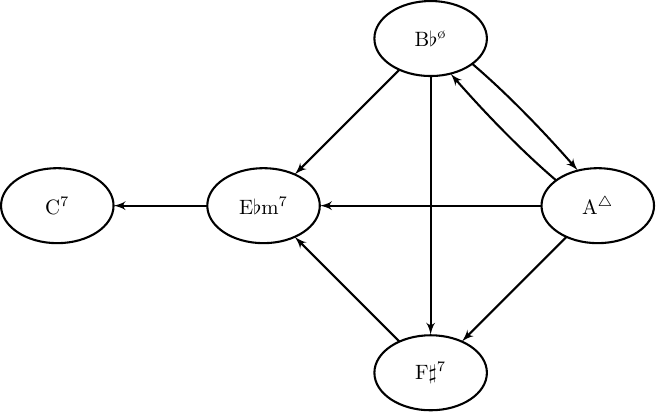
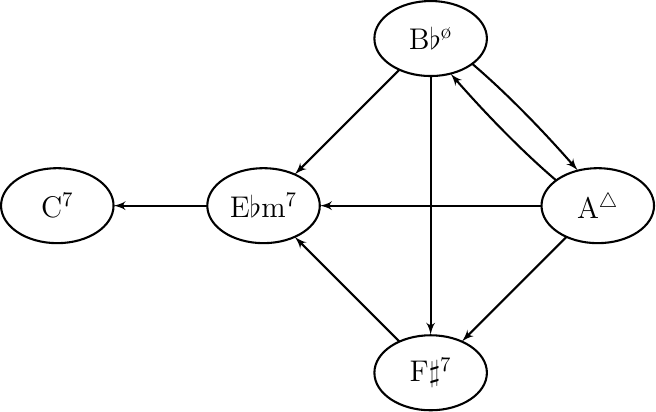
updated the docs

diff --git a/lib/chordgraph.cpp b/lib/chordgraph.cpp
@@ -179,7 +179,7 @@ double ChordGraph::betweenness_centrality(int i, const pathmap &path_map) const 
 }
 
 double::ChordGraph::communicability_betweenness_centrality(int k) const {
-    int n = number_of_vertices();
+    int n = number_of_vertices(), m = 0;
     if (n < 3)
         return 0;
     Matrix A = adjacency_matrix(), Ak = A;
@@ -194,11 +194,15 @@ double::ChordGraph::communicability_betweenness_centrality(int k) const {
         for (int j = 1; j <= n; ++j) {
             if (j == k || j == i)
                 continue;
-            if (eA.element(i, j) > 0)
+            if (eA.element(i, j) > 0) {
                 ret += 1 - eAk.element(i, j) / eA.element(i, j);
+                ++m;
+            }
         }
     }
-    return ret / double((n - 1) * (n - 2));
+    if (m == 0)
+        return 0;
+    return ret / m;
 }
 
 double ChordGraph::katz_centrality(int k, bool rev) const {

diff --git a/lib/digraph.cpp b/lib/digraph.cpp
@@ -443,6 +443,8 @@ void Digraph::output_dot(std::ostream &dot, bool undirected) const {
                 }
                 hex = std::string(tmp);
                 vc_label += "\"#" + hex + hex + hex + "\"";
+                if (_vc[i] > 0.5)
+                    vc_label += " fontcolor=\"white\"";
             }
         }
         dot << "  v" << i;

diff --git a/README.md b/README.md
@@ -10,7 +10,7 @@ Septima is a C++ library for investigating tonal relations between seventh chord
 * creating chord networks
 * finding optimal voicings for sequences of seventh chord symbols
 
-Command-line interface is provided for using library features from a terminal.
+A command-line interface is provided for using library features from a terminal.
 
 ### Dependencies
 1. GCC
@@ -133,7 +133,7 @@ Diatonic voice leading is obtained by setting `-c` option to 5. The option `-cs`
 
 ### Chord graphs
 
-Chord graphs are output in [DOT format](https://graphviz.org/doc/info/lang.html). The computer algebra system [Giac/Xcas](https://www-fourier.ujf-grenoble.fr/~parisse/giac.html) supports importing from DOT and features an extensive package for graph theory.
+Chord graphs are output in [DOT format](https://graphviz.org/doc/info/lang.html). It may be worth noting that the free computer algebra system [Giac/Xcas](https://www-fourier.ujf-grenoble.fr/~parisse/giac.html) supports importing from DOT and features an extensive package for graph theory.
 
 For example, to create the chord graph on minor seventh chords with edges corresponding to diatonic relations, enter:
 
@@ -149,7 +149,7 @@ circo -Tpng -o cg1.png cg.dot
 
 The result is shown below. 
 
-![CG1](images/cg1.png)
+<p align="center"><img src="images/cg1.png" width="50%"></p>
 
 In the following example we create the chord graph on all dominant and half-diminished seventh chords which can be realized in the domain from F&flat; to B&sharp; on the line of fifths, excluding the tones C, G, D, and A. Those chords which cannot be realized in the domain are not included in the graph. Note that the resulting graph is directed because the option `-p` is set to `generic` and hence only transitions in which the generic seventh of second chord is prepared in the first chord are considered. 
 
@@ -160,32 +160,32 @@ dot -Tpng -Grankdir=LR -o cg2.png cg.dot
 
 The result is shown below.
 
-![CG2](images/cg2.png)
+<p align="center"><img src="images/cg2.png" width="50%"></p>
 
-For creating chord graphs with nicely typeset labels, consider setting the option `-lf` to `latex`. In that case, `./septima` outputs a file to be processed with [dot2tex](https://dot2tex.readthedocs.io/en/latest/). For example, a chord graph on the set {C⁷, E&flat;⁷, F&sharp;⁷, A&#9651;, B&flat;&#216;} is created. After that, Graphviz is called to create `xdot` format, which is passed to dot2tex (note that `--crop` option is used). The resulting TeX file is compiled with PDFLatex and converted to PNG using pdftoppm (from [Poppler](https://poppler.freedesktop.org/)).
+For creating chord graphs with nicely typeset chord symbols, consider setting the option `-lf` to `latex`. In that case, `./septima` outputs a file to be processed with [dot2tex](https://dot2tex.readthedocs.io/en/latest/). For example, a chord graph on the set {C⁷, E&flat;⁷, F&sharp;⁷, A&#9651;, B&flat;&#216;} is created. After that, Graphviz is called to create `xdot` format, which is passed to dot2tex (note that `--crop` option is used). The resulting TeX file is compiled with PDFLatex and converted to PNG using pdftoppm (from [Poppler](https://poppler.freedesktop.org/)), as follows.
 
 ```
 ./septima -cg -p generic -lf latex 0:d7 3:m7 6:d7 9:maj7 10:hdim7 >cg.dot
 circo -Txdot -o cg.xdot cg.dot
-dot2tex --crop -o cg.tex cg.xdot
+dot2tex --crop -tmath --figpreamble="\Large" -o cg.tex cg.xdot
 pdflatex cg.tex
 pdftoppm -png cg.pdf >cg.png
 ```
 
 The result is shown below.
 
-![CG3](images/cg3.png)
+<p align="center"><img src="images/cg3.png" width="400"></p>
 
-By setting the option `-vc` one can obtain more informative graphs. In that case, communnicability betweenness centrality (CBC) is computed for each vertex (see [this paper](https://arxiv.org/abs/0905.4102) by E. Estrada *et al.*). If `-vc` is set to `label` resp. `color`, then CBC measure *cₖ* is written in the **xlabel** resp. **fillcolor** attribute of the *k*-th vertex. When processed by Graphviz, *cₖ* is either shown near the respective vertex or it represents a particular color in the gray scale&mdash;represented by the segment [0, 1] where 0 and 1 correspond to white black color, respectively. For example, a chord graph on the set {C⁷, C&sharp;&#216;, Dm⁷, E&flat;&#9651;, G⁷, A&flat;&#216; Am⁷, B&flat;&#9651;} is visualized by typing:
+By setting the option `-vc` one can obtain more informative graphs. In that case, communnicability betweenness centrality (CBC) is computed for each vertex (see [this paper](https://arxiv.org/abs/0905.4102) by E. Estrada *et al.*). The original definition is adjusted for graphs which are not (strongly) connected. If `-vc` is set to `label` resp. `color`, then CBC measure *cₖ* is written in the **xlabel** resp. **fillcolor** attribute of the *k*-th vertex. When processed by Graphviz, *cₖ* is either shown near the respective vertex or it represents a particular color in the gray scale&mdash;represented by the segment [0, 1] where 0 and 1 correspond to white black color, respectively. For example, a chord graph on the set {C⁷, C&sharp;&#216;, Dm⁷, E&flat;&#9651;, G⁷, A&flat;&#216; Am⁷, B&flat;&#9651;} is visualized by typing:
 
 ```
 ./septima -cg -p generic -vc color 0:d7 7:d7 1:hdim7 8:hdim7 2:m7 9:m7 3:maj7 10:maj7 >cg.dot
 circo -Tpng -o cg.png cg.dot
 ```
 
-The obtained image is shown below. Darker vertices are more important, which means that they appear inside random walks (not at the beginning nor end) with higher probability.
+The obtained image is shown below. Darker vertices are more important as stepping-stones in chord progressions.
 
-![CG4](images/cg4.png)
+<p align="center"><img src="images/cg4.png" width="50%"></p>
 
 ### Voicings
 
